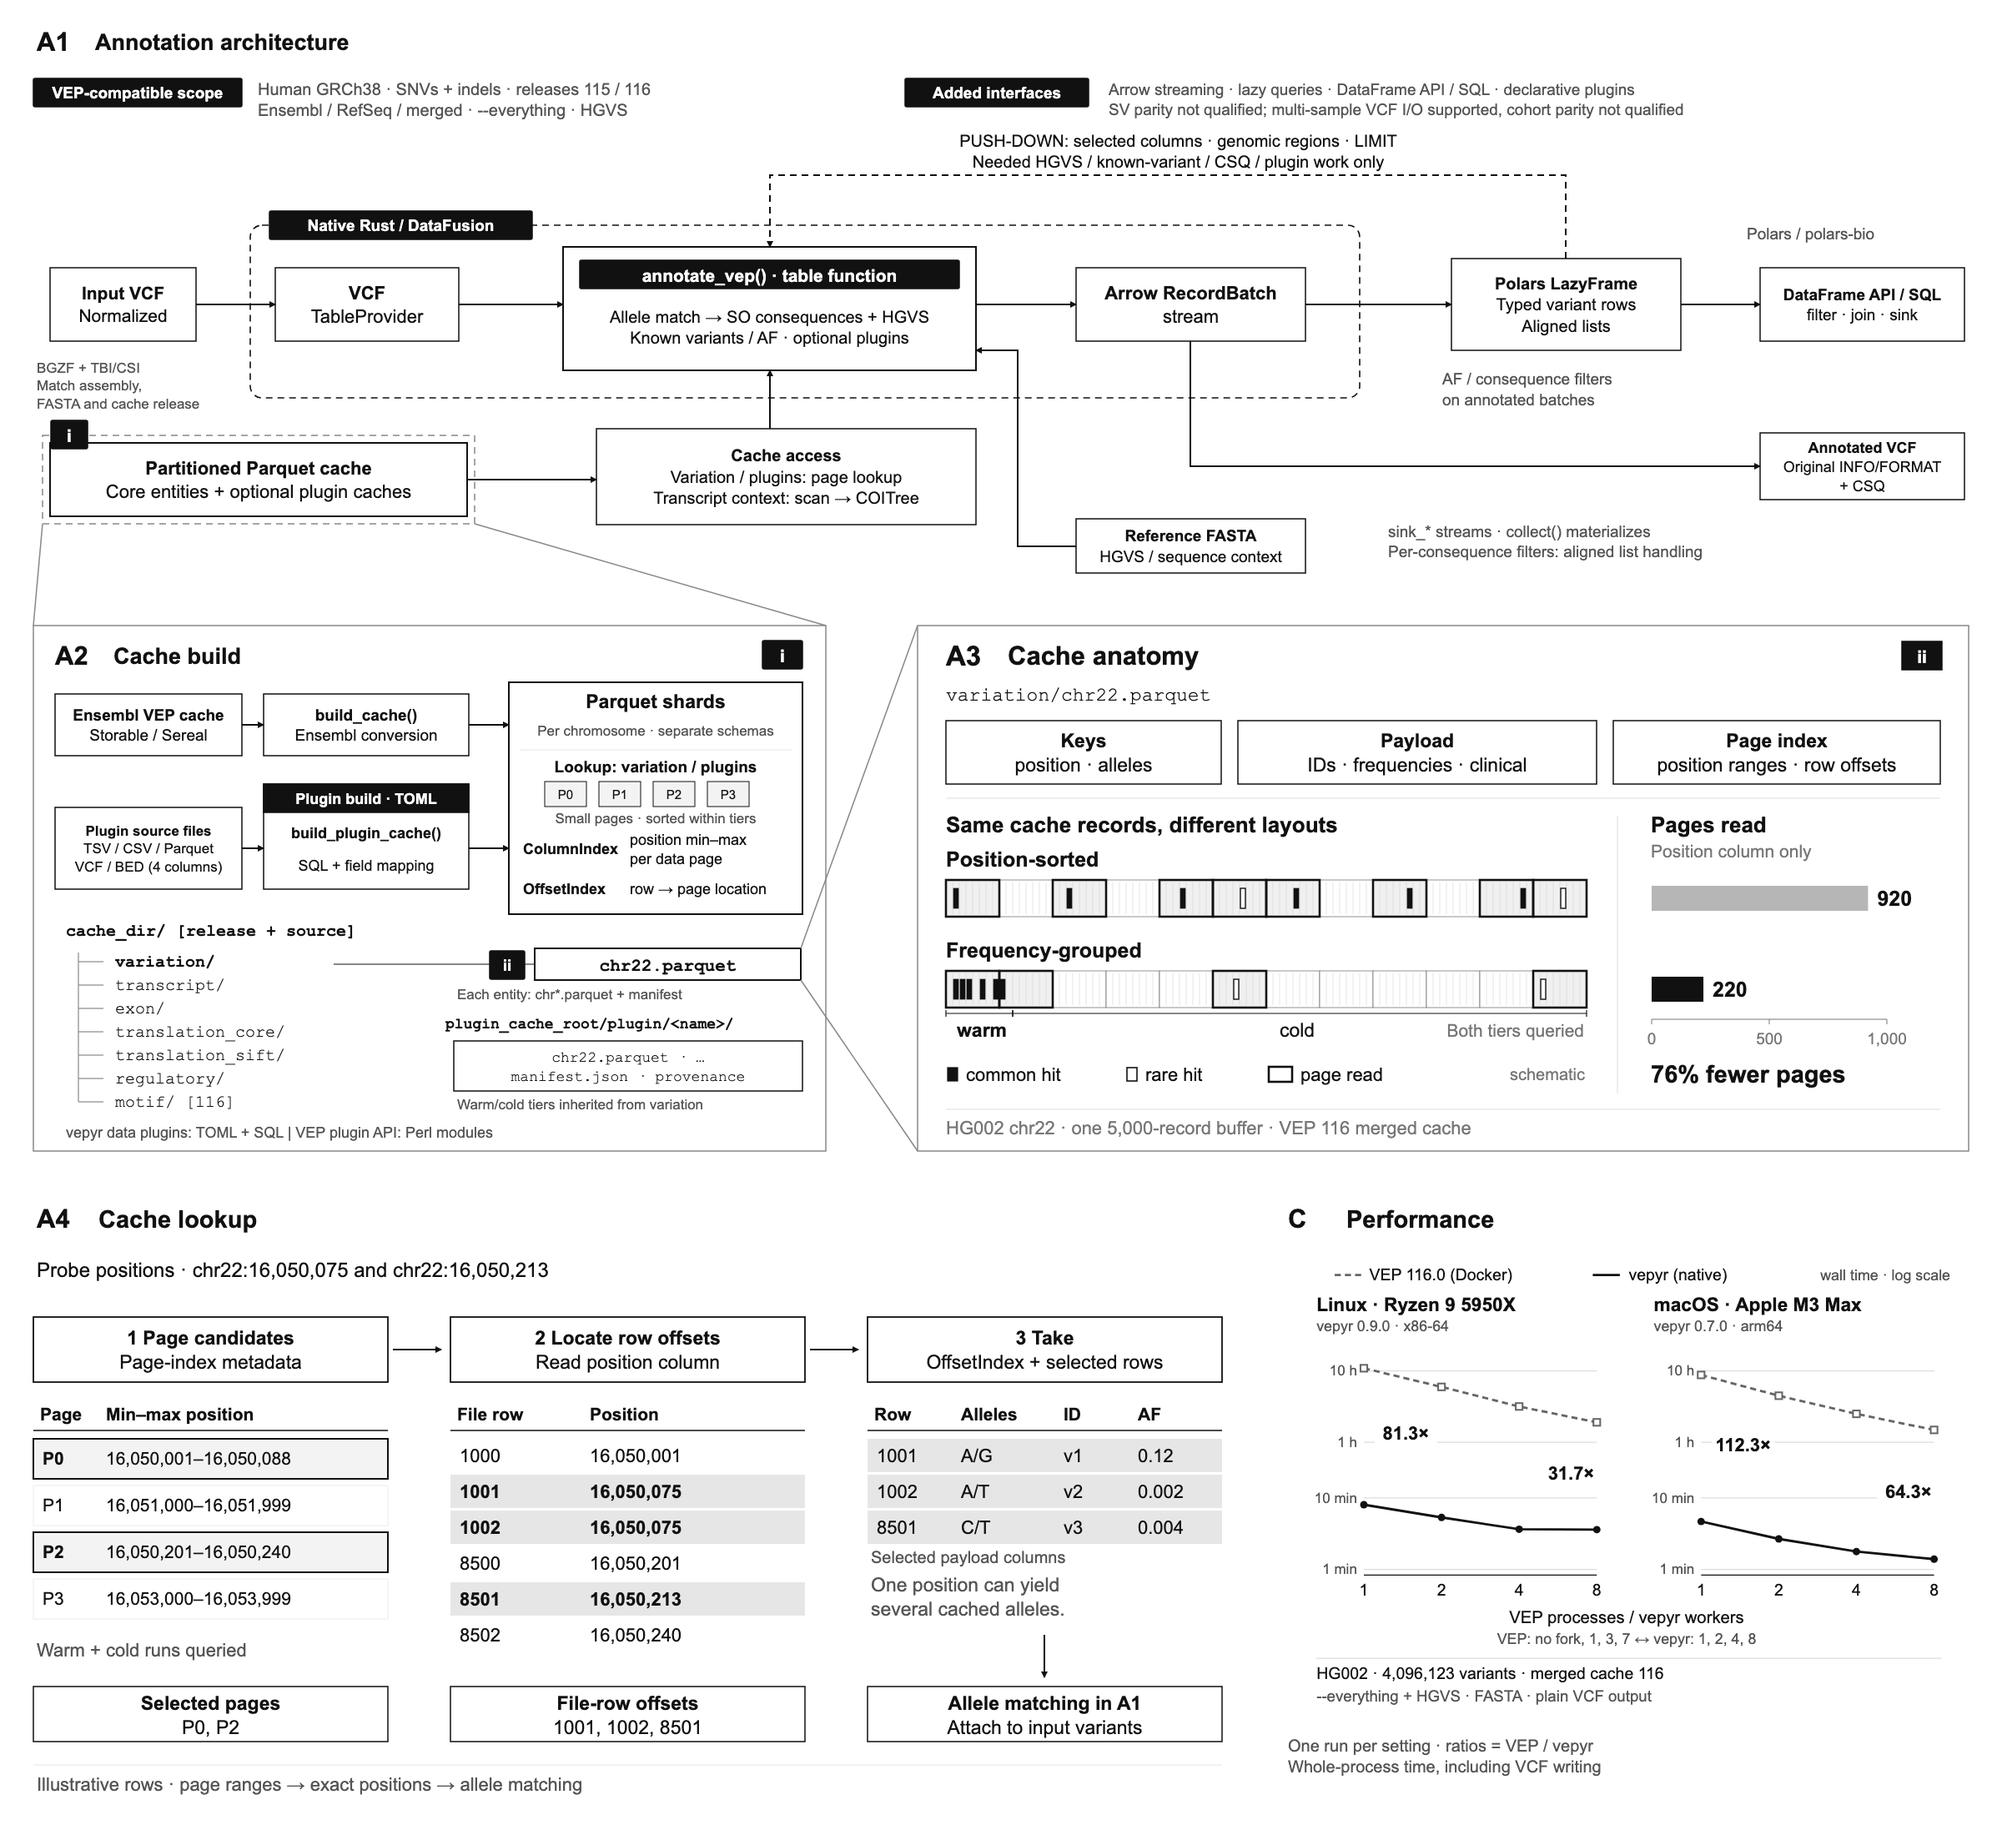
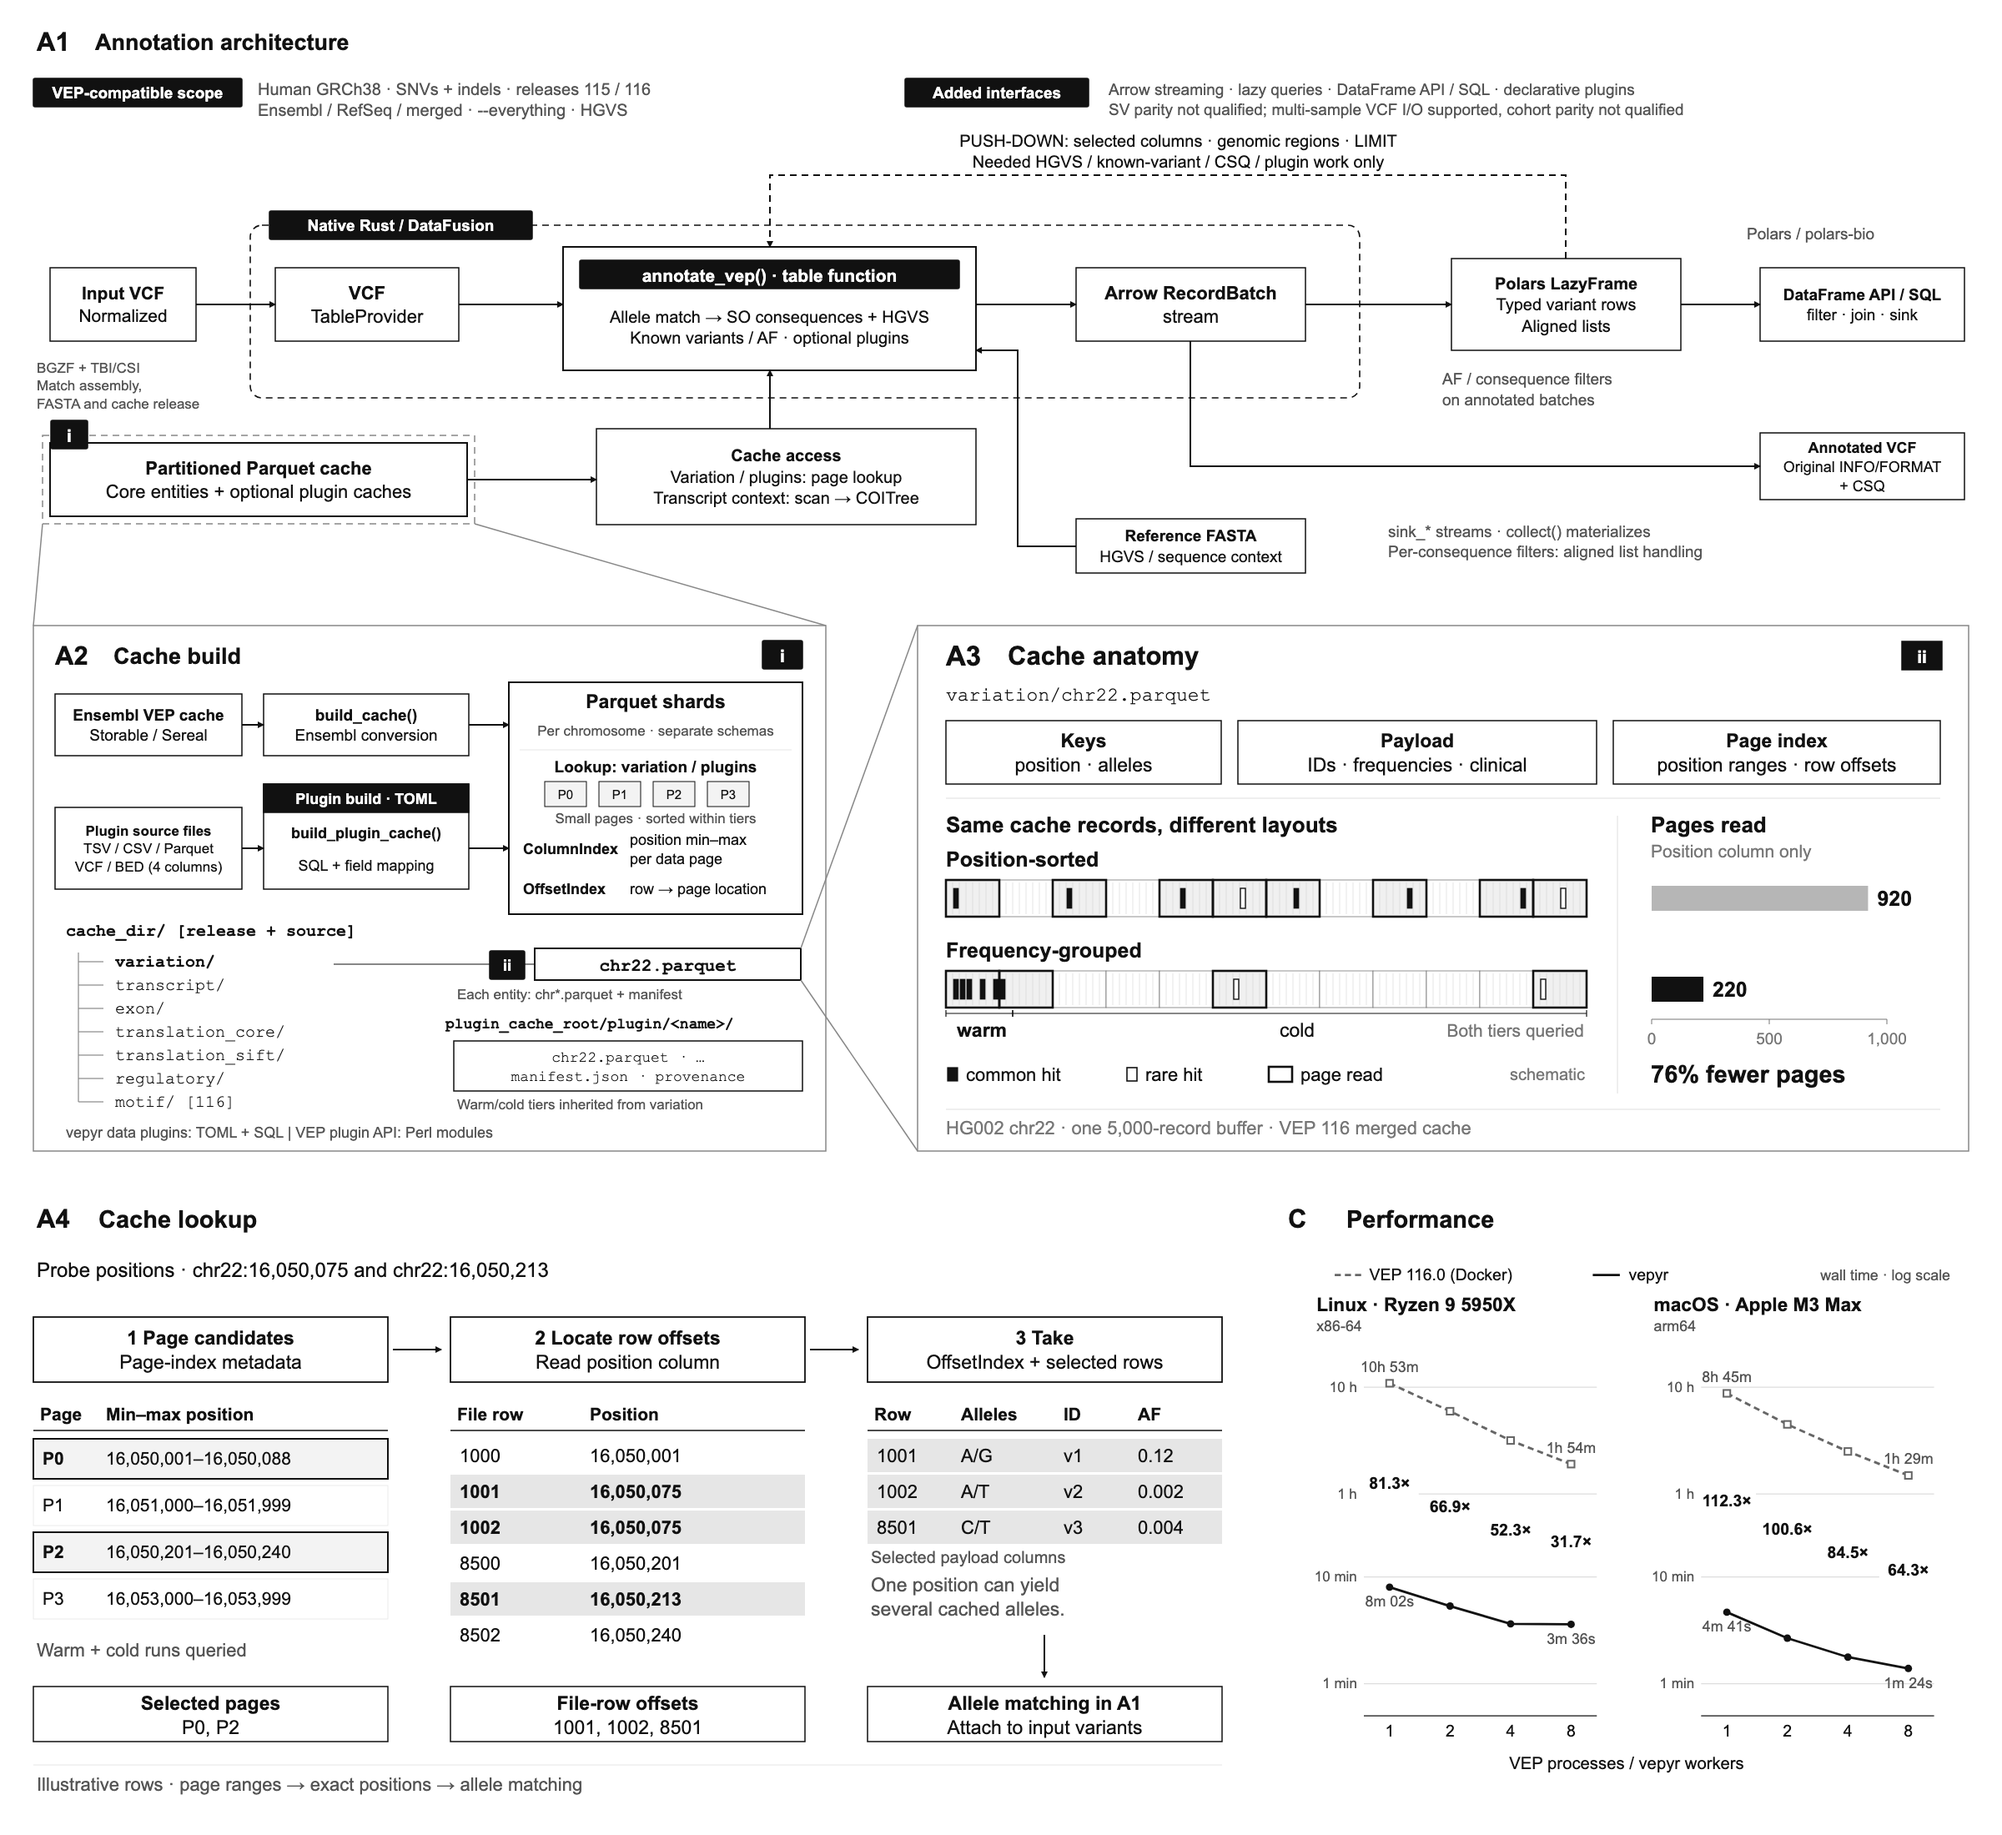
Clarify Figure 1 performance labels and simplify chart layout

diff --git a/paper/figure1/build_performance.py b/paper/figure1/build_performance.py
@@ -14,7 +14,7 @@ from pathlib import Path
 
 HERE = Path(__file__).resolve().parent
 DATA = HERE / "data/performance-wgs.json"
-WIDTH, HEIGHT = 1010, 665
+WIDTH, HEIGHT = 1010, 780
 INK, MUTED, GRID = "#111111", "#555555", "#dddddd"
 LEVELS = (1, 2, 4, 8)
 
@@ -58,20 +58,31 @@ def rows(panel):
     return result
 
 
+def format_time(seconds):
+    """Compact endpoint labels, using the units in the reference chart."""
+    if seconds >= 3600:
+        hours, rest = divmod(round(seconds), 3600)
+        return f"{hours}h {rest // 60:02d}m"
+    if seconds >= 60:
+        minutes, rest = divmod(round(seconds), 60)
+        return f"{minutes}m {rest:02d}s"
+    return f"{seconds:.1f}s"
+
+
 def chart(parts, x, title, subtitle, panel):
     values = rows(panel)
     text(parts, x, 76, title, size=28, weight=700)
     text(parts, x, 106, subtitle, size=22, fill=MUTED)
-    # Identical limits on both platforms; the x slots are categorical settings.
-    plot_x, plot_y, plot_w, plot_h = x + 70, 134, 344, 332
+    # Shared log limits and inset categorical slots leave room for endpoint labels.
+    plot_x, plot_y, plot_w, plot_h = x + 70, 134, 344, 540
 
     def px(level):
-        return plot_x + LEVELS.index(level) * plot_w / 3
+        return plot_x + 38 + LEVELS.index(level) * (plot_w - 76) / 3
 
     def py(seconds):
-        if not 50 <= seconds <= 70000:
+        if not 30 <= seconds <= 80000:
             raise ValueError(f"Measurement outside shared axis limits: {seconds}")
-        return plot_y + plot_h * (1 - math.log(seconds / 50) / math.log(70000 / 50))
+        return plot_y + plot_h * (1 - math.log(seconds / 30) / math.log(80000 / 30))
 
     for tick, label in ((60, "1 min"), (600, "10 min"), (3600, "1 h"), (36000, "10 h")):
         yy = py(tick)
@@ -100,23 +111,34 @@ def chart(parts, x, title, subtitle, panel):
                     f'<circle cx="{xx:.1f}" cy="{yy:.1f}" r="5.5" fill="{color}"/>'
                 )
 
-    for level in (1, 8):
+    for level in LEVELS:
         vep, vepyr = values["Ensembl VEP"][level], values["vepyr"][level]
-        # Inset endpoint labels to keep them inside their own chart.
-        xx = px(level) + (62 if level == 1 else -38)
+        xx = px(level)
         yy = py(math.sqrt(vep * vepyr))
         parts.append(
-            f'<rect x="{xx - 46:.1f}" y="{yy - 22:.1f}" width="92" height="36" fill="white"/>'
+            f'<rect x="{xx - 43:.1f}" y="{yy - 20:.1f}" width="86" height="34" fill="white"/>'
         )
         text(
             parts,
             xx,
             yy + 5,
             f"{vep / vepyr:.1f}×",
-            size=27,
+            size=24,
             weight=700,
             anchor="middle",
         )
+
+    for tool, offset in (("Ensembl VEP", -17), ("vepyr", 29)):
+        for level in (1, 8):
+            text(
+                parts,
+                px(level),
+                py(values[tool][level]) + offset,
+                format_time(values[tool][level]),
+                size=22,
+                anchor="middle",
+                fill=MUTED,
+            )
 
 
 def build_svg():
@@ -136,51 +158,32 @@ def build_svg():
         "<title>HG002 whole-genome annotation: VEP and vepyr on Linux and macOS</title>",
         "<desc>Whole-process wall time on a shared logarithmic scale. "
         "VEP no fork, fork 1, 3 and 7 are paired with vepyr workers 1, 2, 4 and 8. "
-        "Ratios are VEP time divided by vepyr time. One run per setting; "
-        "the vepyr version differs between platforms.</desc>",
+        "Ratios are VEP time divided by vepyr time at each setting. "
+        "Endpoint labels show elapsed times. One run per setting.</desc>",
         '<rect width="100%" height="100%" fill="white"/>',
         '<g font-family="Arial, Helvetica, sans-serif">',
     ]
     line(parts, 74, 23, 114, 23, color="#666666", width=3.5, dash="9 6")
     text(parts, 125, 31, "VEP 116.0 (Docker)", size=24)
     line(parts, 455, 23, 495, 23, color=INK, width=3.5)
-    text(parts, 508, 31, "vepyr (native)", size=24)
+    text(parts, 508, 31, "vepyr", size=24)
     text(parts, 983, 31, "wall time · log scale", size=22, anchor="end", fill=MUTED)
     chart(
         parts,
         47,
         "Linux · Ryzen 9 5950X",
-        f"vepyr {panels['linux']['vepyr_version']} · x86-64",
+        "x86-64",
         panels["linux"],
     )
     chart(
         parts,
         545,
         "macOS · Apple M3 Max",
-        f"vepyr {panels['macos']['vepyr_version']} · arm64",
+        "arm64",
         panels["macos"],
     )
     text(
-        parts, WIDTH / 2, 537, "VEP processes / vepyr workers", size=25, anchor="middle"
-    )
-    text(
-        parts,
-        WIDTH / 2,
-        568,
-        "VEP: no fork, 1, 3, 7  ↔  vepyr: 1, 2, 4, 8",
-        size=22,
-        anchor="middle",
-        fill=MUTED,
-    )
-    line(parts, 47, 589, 970, 589)
-    text(parts, 47, 620, "HG002 · 4,096,123 variants · merged cache 116", size=24)
-    text(
-        parts,
-        47,
-        653,
-        "--everything + HGVS · FASTA · plain VCF output",
-        size=23,
-        fill=MUTED,
+        parts, WIDTH / 2, 753, "VEP processes / vepyr workers", size=25, anchor="middle"
     )
     parts.extend(["</g>", "</svg>"])
     return "\n".join(parts) + "\n"

diff --git a/paper/figure1/build_cache_workflow_proposal.py b/paper/figure1/build_cache_workflow_proposal.py
@@ -337,15 +337,12 @@ def full_figure(performance_uri: str) -> fig.Scene:
     # Panel C is generated from the frozen, audited performance-data snapshot.
     s.label(1540, 1439, 64, 44, "C", font_size=31, weight=700)
     s.label(1610, 1440, 750, 42, "Performance", font_size=29, weight=700)
-    s.image(1540, 1510, 820, 820 * 665 / 1010, performance_uri)
-    s.label(
+    s.image(
         1540,
-        2070,
+        1510,
         820,
-        70,
-        "One run per setting · ratios = VEP / vepyr\nWhole-process time, including VCF writing",
-        font_size=20,
-        color=GREY,
+        820 * build_performance.HEIGHT / build_performance.WIDTH,
+        performance_uri,
     )
     return s
 
@@ -368,7 +365,7 @@ def save(s: fig.Scene, path: Path, width: int, height: int, title: str) -> None:
         "Lookup example rows and payload values are illustrative. The anatomy chart "
         "reports 920 versus 220 position pages for one buffer from Marek's source. "
         "Warm and cold are on-disk frequency tiers. Panel C uses audited merged-cache "
-        "whole-genome timings from master: vepyr 0.9.0 on Linux and 0.7.0 on macOS."
+        "whole-genome timings from master for VEP and vepyr on Linux and macOS."
     )
     ET.register_namespace("", "http://www.w3.org/2000/svg")
     path.with_suffix(".svg").write_text(ET.tostring(root, encoding="unicode") + "\n")
